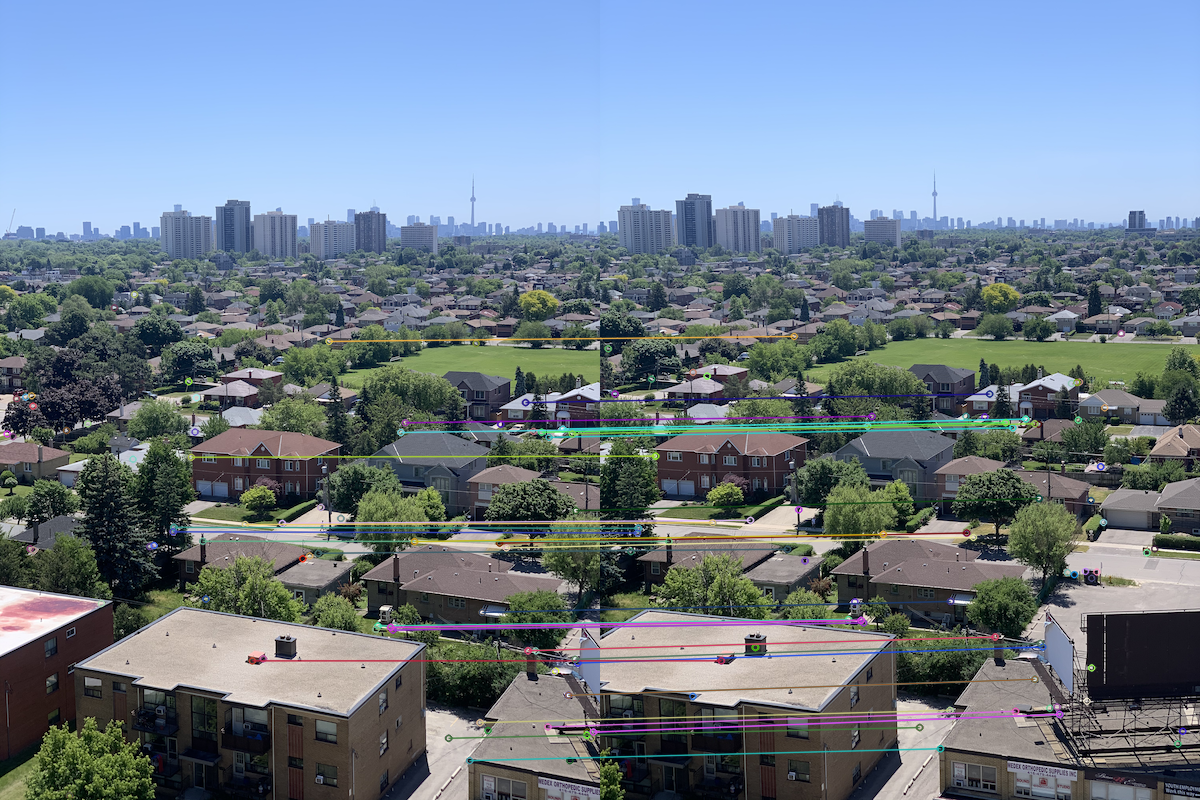
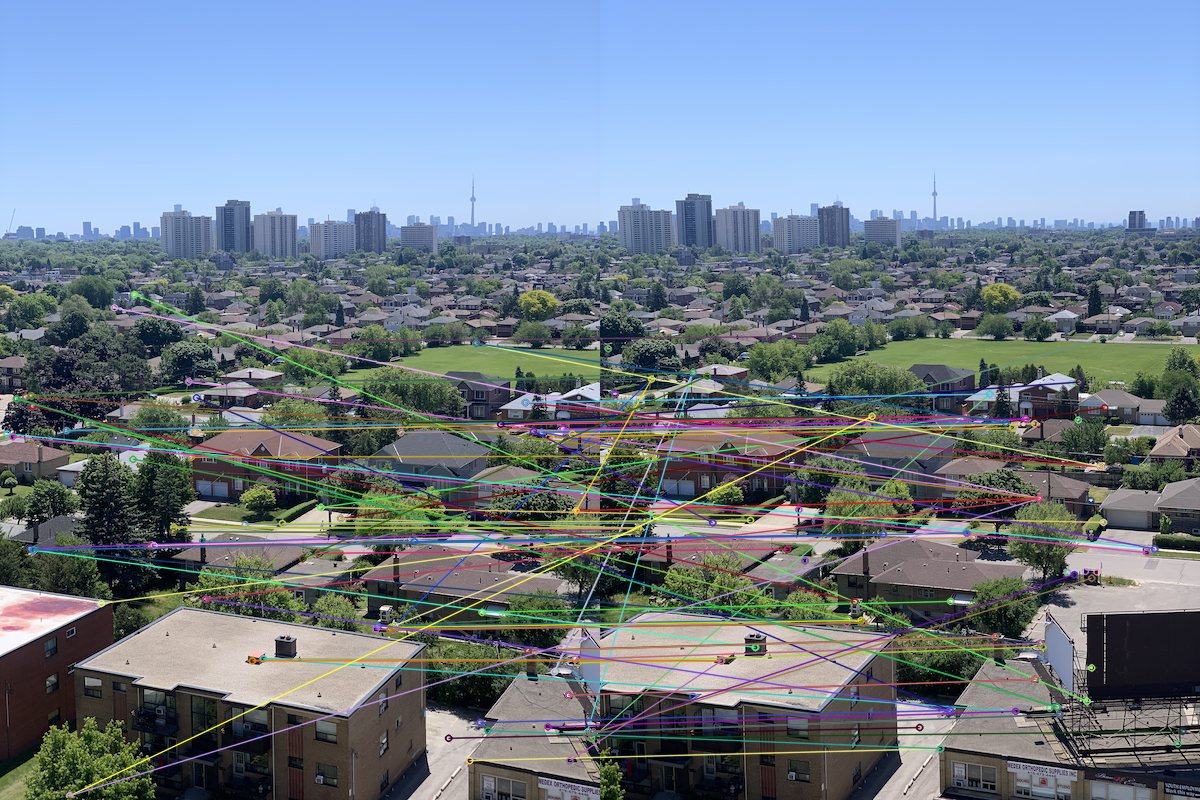
420 A3 half done

diff --git a/Assignment3/A3code.py b/Assignment3/A3code.py
@@ -2,6 +2,7 @@ import numpy as np
 import scipy as sp
 import cv2 as cv
 from scipy import signal as sps
+from scipy import optimize as spo
 from matplotlib import pyplot as plt
 from Assignment3 import A2Q7 as q7
 from scipy.io import loadmat
@@ -104,7 +105,6 @@ def Q4(originalImage, rotatedImage, original_vectors, rotated_vectors, rotation_
             matched_vectors.append((v[:3], min_v[:3]))
 
     shape = orig_image.shape
-    print("Draw!")
     for m in matched_vectors:
         value = m
         src = value[1]
@@ -143,14 +143,119 @@ def Q8(img1, img2, feature_num, threshlod=0.5):
     cv.imwrite(img2[:-3] + 'sift_detect.jpg', orig_img2)
 
     bf = cv.BFMatcher()
-    matches = bf.knnMatch(descriptor1, descriptor2, k=2)
+    matches = bf.knnMatch(descriptor1, descriptor2, k=1)
     match_1 = []
-    for m, n in matches:
-        if m.distance < threshlod*n.distance:
-            match_1.append([m])
+    r_kps1 = []
+    r_kps2 = []
+    for m in matches:
+
+        r_kps1.append(kps1[m[0].queryIdx])
+        r_kps2.append(kps2[m[0].trainIdx])
+        match_1.append(m)
     output = cv.drawMatchesKnn(orig_img1, kps1, orig_img2, kps2, match_1, None,
                                flags=cv.DrawMatchesFlags_NOT_DRAW_SINGLE_POINTS)
     cv.imwrite("Q8_match.png", output)
+    return r_kps1, r_kps2
+
+def RNG(low, high, size):
+    r_list = np.empty(size, dtype=int)
+    r_list.fill(-1)
+    count = 0
+    while count < size:
+        a = int(np.random.randint(low, high))
+        while np.any(r_list == a):
+            a = int(np.random.randint(low, high))
+        r_list[count] = a
+        count += 1
+    return r_list
+
+def Homographic_matrix_generator():
+    matrix = np.zeros((9, 9))
+    matrix[:, 2] = [-1, 0, -1, 0, -1, 0, -1, 0, 0]
+    matrix[:, 5] = [0, -1, 0, -1, 0, -1, 0, -1, 0]
+    print(matrix)
+    return matrix
+
+def Homographic_matrix_filler(matrix, kps1, kps2):
+
+    x1, x2, x3, x4 = kps1[0, 0], kps1[0, 1], kps1[0, 2], kps1[0, 3]
+    y1, y2, y3, y4 = kps1[1, 0], kps1[1, 1], kps1[1, 2], kps1[1, 3]
+    xp1, xp2, xp3, xp4 = kps2[0, 0], kps2[0, 1], kps2[0, 2], kps2[0, 3]
+    yp1, yp2, yp3, yp4 = kps2[1, 0], kps2[1, 1], kps2[1, 2], kps2[1, 3]
+
+    matrix[:, 0] = [-x1, 0, -x2, 0, -x3, 0, -x4, 0, 0]
+    matrix[:, 1] = [-y1, 0, -y2, 0, -y3, 0, -y4, 0, 0]
+
+    matrix[:, 3] = [0, -x1, 0, -x2, 0, -x3, 0, -x4, 0]
+    matrix[:, 4] = [0, -y1, 0, -y2, 0, -y3, 0, -y4, 0]
+
+    matrix[:, 6] = [x1*xp1, x1*yp1, x2*xp2, x2*yp2, x3*xp3, x3*yp3, x4*xp4, x4*yp4, 0]
+    matrix[:, 7] = [y1 * xp1, y1 * yp1, y2 * xp2, y2 * yp2, y3 * xp3, y3 * yp3, y4 * xp4, y4 * yp4, 0]
+    matrix[:, 8] = [xp1, yp1, xp2, yp2, xp3, yp3, xp4, yp4, 1]
+    return matrix
+
+
+
+
+
+def Q9(img1, img2, kps1, kps2, threshold,limit=1000):
+    image1 = cv.imread(img1)
+    image2 = cv.imread(img2)
+    shape = image1.shape
+    kps1_len = len(kps1)
+    kps2_len = len(kps2)
+
+    kps1_coord = np.empty((2, kps1_len))
+    kps2_coord = np.empty((2, kps2_len))
+    for i in range(kps1_len):
+        kps1_coord[:, i] = kps1[i].pt
+
+
+    for i in range(kps2_len):
+        kps2_coord[:, i] = kps2[i].pt
+
+    best = 0
+    H = None
+    matched_point = []
+    kps1_len = kps1_coord.shape[1]
+    matrix = Homographic_matrix_generator()
+    b = np.zeros(9)
+    b[8] = 1
+    iteration = 0
+    while best < threshold and iteration < limit:
+        temp = []
+        random = RNG(0, kps1_len, 4)
+        m1 = kps1_coord[:, random]
+        m2 = kps2_coord[:, random]
+        A = Homographic_matrix_filler(matrix[:, :], m1, m2)
+        result = spo.lsq_linear(A, b).x.reshape((3, 3))
+        c_vector = np.ones(3)
+        count = 0
+        for i in range(kps1_len):
+            c_vector[:-1] = kps1_coord[:, i]
+            transformed = result @ c_vector
+            new_coord = transformed[:2] / transformed[-1]
+            if np.allclose(new_coord, kps2_coord[:, i], atol=1):
+                temp.append((kps1_coord[:, i], kps2_coord[:, i]))
+                count += 1
+        if count > best:
+            H = result[:, :]
+            best = count
+            matched_point = temp[:]
+        iteration += 1
+    print(best, len(matched_point))
+    output = np.empty((shape[0], 2*shape[1], shape[2]))
+    output[:, :shape[1], :] = image1
+    output[:, shape[1]:, :] = image2
+
+    for match in matched_point:
+        point1 = (int(match[0][0]), int(match[0][1]))
+        point2 = (int(match[1][0]) + shape[1], int(match[1][1]))
+        cv.line(output, point1, point2, (255, 0, 0))
+    cv.imwrite('Q9_match.png', output)
+    return H
+
+
 
 
 
@@ -172,5 +277,6 @@ if __name__ =="__main__":
     # feature_vector_change1 = Q2(Q1("UofT_1_rotated.png", 30, 5))
     # Q4("UofT_1_rotated.png", "UofT_rotated.png", feature_vector_change1, feature_vector_change2, ((512, 512), 90, 1), 5)
     # Q7()
-    Q8('./my_apartment/image_1.png', './my_apartment/image_2.png', 100)
+    kps1, kps2 = Q8('./my_apartment/image_1.png', './my_apartment/image_2.png', 100)
+    Q9('./my_apartment/image_1.png', './my_apartment/image_2.png', kps1, kps2, 20)
 

diff --git a/Assignment2/A2code.py b/Assignment2/A2code.py
@@ -107,7 +107,7 @@ def Gaussian_pyramid(imgName):
     # Generate levels of the pyramid
     for i in range(0, 7):
         kernel = Gaussian_2D(5,2**i)
-        blur = sp.convolve2d(greyScale, kernel, mode='same')
+        blur = cv.GaussianBlur(greyScale, (5, 5), 2**i)
         resized_image = cv.resize(blur, (int(blur.shape[0]/(2**i)), int(blur.shape[1]/(2**i))))
         pyramids.append(resized_image)
 
@@ -230,16 +230,16 @@ def local_max(original_img, threshold):
 
 
 if __name__ =="__main__":
-    Q1_plot()
-    Resize_to_half_and_tenth('shapes.png')
-    Resize_to_half_and_tenth('cnTower.jpg')
-    Harris_Corner_Detector('shapes.png', 5, 99, smooth_image=False)
-    Harris_Corner_Detector('shapes.png', 5, 99, smooth_image=True)
-    Harris_Corner_Detector('shapes_half.png', 5, 99, smooth_image=True)
-    Harris_Corner_Detector('shapes_1_tenth.png', 5, 99, smooth_image=True)
-    Harris_Corner_Detector('cnTower.jpg', 5, 99, smooth_image=True)
-    Harris_Corner_Detector('cnTower_half.png', 5, 99, smooth_image=True)
-    Harris_Corner_Detector('cnTower_1_tenth.png', 5, 99, smooth_image=True)
-    Gaussian_pyramid('sunflower.jpg')
-    Laplacian_pyramid('sunflower.jpg')
+    # Q1_plot()
+    # Resize_to_half_and_tenth('shapes.png')
+    # Resize_to_half_and_tenth('cnTower.jpg')
+    # Harris_Corner_Detector('shapes.png', 5, 99, smooth_image=False)
+    # Harris_Corner_Detector('shapes.png', 5, 99, smooth_image=True)
+    # Harris_Corner_Detector('shapes_half.png', 5, 99, smooth_image=True)
+    # Harris_Corner_Detector('shapes_1_tenth.png', 5, 99, smooth_image=True)
+    # Harris_Corner_Detector('cnTower.jpg', 5, 99, smooth_image=True)
+    # Harris_Corner_Detector('cnTower_half.png', 5, 99, smooth_image=True)
+    # Harris_Corner_Detector('cnTower_1_tenth.png', 5, 99, smooth_image=True)
+    # Gaussian_pyramid('sunflower.jpg')
+    # Laplacian_pyramid('sunflower.jpg')
     local_max("sunflower.jpg", 1)
